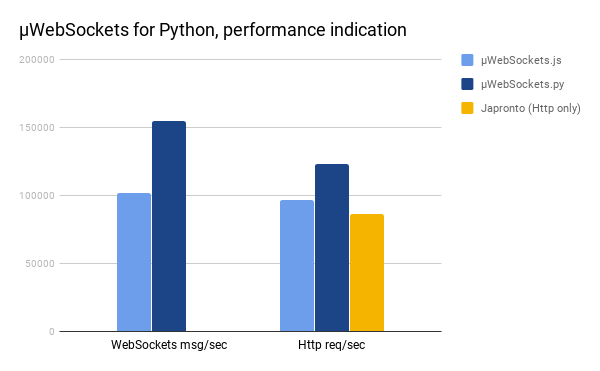
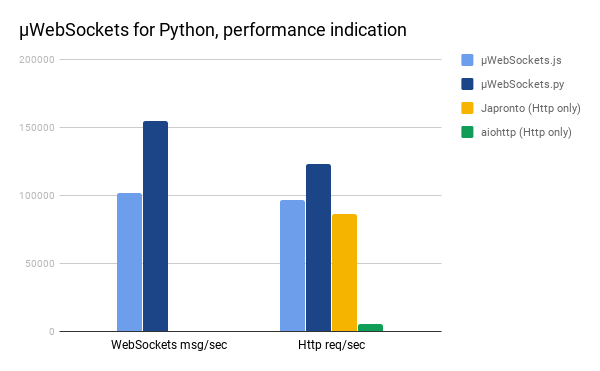
Initial seamless integration with asyncio

Changed region(s): [[0.21, 0.3261, 0.33, 0.8895], [0.51, 0.4447, 0.66, 0.8895], [0.75, 0.3261, 0.96, 0.3854]]

diff --git a/src/Selector.h b/src/Selector.h
@@ -5,23 +5,144 @@
 typedef struct {
     PyObject_HEAD
 	uv_loop_t *loop;
+    PyTypeObject *namedTuple;
+    PyObject *list;
 } SelectorObject;
+
+int read_mask = 1;
+int write_mask = 2;
+
+// vi behöver en fd -till PyObject mapper som håller SelectionKey från fd
+#include <map>
+
+std::map<int, PyObject *> polls;
+std::map<int, uv_poll_t *> uv_polls;
 
 // poll_cb bygger upp vektorn att ge tillbaka
 
 // sel.register(conn, selectors.EVENT_READ, read)
 // integer eller object med fileno, bitmask, userdata (obj)
-static PyObject *Selector_register(SelectorObject *self, PyObject *args) {
+static PyObject *Selector_register(SelectorObject *self, PyObject **args, int nargs) {
 
-    printf("Register called\n");
+    /* Is first argument an integer? */
+    int fd = -1;
+    if (PyLong_Check(args[0])) {
+        fd = PyLong_AsLong(args[0]);
+        printf("FD är: %d\n", fd);
+    } else {
+        printf("Första är inte fd!\n");
+        PyObject *fileobj = args[0];
 
-    return Py_None;
+        PyObject *fdObj = PyObject_CallMethod(fileobj, "fileno", NULL);
+        if (PyLong_Check(fdObj)) {
+            fd = PyLong_AsLong(fdObj);
+            printf("FD från object är: %d\n", fd);
+        } else {
+            // throw exception and return null
+        }
+    }
+
+    int mask = 0;
+    if (PyLong_Check(args[1])) {
+        mask = PyLong_AsLong(args[1]);
+        printf("bitmask är: %d\n", mask);
+    }
+
+    printf("Register called with fd: %d mask: %d\n", fd, mask);
+
+    // SelectorKey
+    //fileobj, fd, events, data
+
+    PyObject *namedTuple = PyStructSequence_New(self->namedTuple);
+
+    Py_INCREF(args[0]);
+
+
+    PyStructSequence_SetItem(namedTuple, 0, args[0]);
+    PyStructSequence_SetItem(namedTuple, 1, PyLong_FromLong(fd));
+    PyStructSequence_SetItem(namedTuple, 2, PyLong_FromLong(mask));
+
+    // optional - kolla längden på args!
+    if (nargs == 3) {
+        printf("Vi har user data!\n");
+        Py_INCREF(args[2]);
+        PyStructSequence_SetItem(namedTuple, 3, args[2]);
+    }
+
+    // kolla om vi redan har denna fd eller lägg till
+    Py_INCREF(namedTuple); // behövs den? efter new? ja för vi sparar den hos oss också
+    polls.insert({fd, namedTuple});
+
+
+    // registrera den själva grejen, peka till pyobjektet
+    // vi kan nå SelectorKey:n genom fd också
+    uv_poll_t *p = new uv_poll_t;
+    uv_poll_init_socket(self->loop, p, fd);
+
+
+    // starta pollning enligt mask
+    uv_poll_start(p, mask, [](uv_poll_t *handle, int status, int events) {
+        // show fd for debugging
+        uv_os_fd_t fd;
+        uv_fileno((uv_handle_t *)handle, &fd);
+        //printf("Poll med FD: %d är redo!\n", fd);
+
+        // get loop and from that SelectorObject
+        uv_loop_t *loop = uv_handle_get_loop((uv_handle_t *) handle);
+        SelectorObject *self = (SelectorObject *) loop->data;
+
+        // make tuple of SelectorKEy and events
+        PyObject *tuple = PyTuple_Pack(2, (PyObject *) handle->data, PyLong_FromLong(events));
+        Py_INCREF(tuple);
+        // add it to this iteration list
+        PyList_Append(self->list, tuple);
+    });
+
+
+    uv_polls.insert({fd, p});
+
+    Py_INCREF(namedTuple);
+    p->data = namedTuple;
+    return namedTuple;
 }
 
-static PyObject *Selector_unregister(SelectorObject *self, PyObject *args) {
+static PyObject *Selector_unregister(SelectorObject *self, PyObject **args, int nargs) {
+
+    int fd = -1;
+    if (PyLong_Check(args[0])) {
+        fd = PyLong_AsLong(args[0]);
+        printf("FD är: %d\n", fd);
+    } else {
+        printf("Första är inte fd!\n");
+        PyObject *fileobj = args[0];
+
+        PyObject *fdObj = PyObject_CallMethod(fileobj, "fileno", NULL);
+        if (PyLong_Check(fdObj)) {
+            fd = PyLong_AsLong(fdObj);
+            printf("FD från object är: %d\n", fd);
+        } else {
+            // throw exception and return null
+        }
+    }
+
+    uv_poll_t *p = uv_polls[fd];
+
+    uv_poll_stop(p);
+    uv_close((uv_handle_t *) p, [](uv_handle_t *p) {
+        delete (uv_poll_t *) p;
+    });
+
+    // tar fd eller fileno-obj som key
 
     printf("Unregister called\n");
 
+
+    uv_polls.erase(fd);
+    polls.erase(fd);
+
+
+
+    Py_INCREF(Py_None);
     return Py_None;
 }
 
@@ -29,6 +150,7 @@ static PyObject *Selector_modify(SelectorObject *self, PyObject *args) {
 
     printf("Modify called\n");
 
+    Py_INCREF(Py_None);
     return Py_None;
 }
 
@@ -36,26 +158,95 @@ static PyObject *Selector_modify(SelectorObject *self, PyObject *args) {
 
 /* This only returns to Python when there are Python events */
 static PyObject *Selector_select(SelectorObject *self, PyObject **args, int nargs) {
+    if (nargs == 1) {
+            //printf("Select called with timeout: %d\n", PyLong_AsLong(args[0]));
 
-    printf("Select called\n");
+            int timeout = PyLong_AsLong(args[0]);
+            if (timeout == 0) {
+                // important to just give it empty list when timeout is 0
+                PyObject *list = self->list;
+
+                self->list = PyList_New(0);
+
+                Py_INCREF(list);
+                return list;
+            }
+
+    } else {
+            //printf("Select called\n");
+    }
+
+    while (true) {
+
+        // if we have no polls just return
+        /*if (polls.size() == 0) {
+            Py_INCREF(Py_None);
+            return Py_None;
+        }*/
+
+        int still = uv_run(self->loop, UV_RUN_ONCE);
+
+        //printf("One loop iteration!\n");
+        //break;
+
+        //if (!still)
+            //break;
+
+        /* If we have any ready polls for Python we have to return them now */
+        if (PyList_Size(self->list)) {
+            break;
+        }
+    }
 
 
-    //while(true) {
-        int remaining = uv_run(self->loop, UV_RUN_ONCE);
+
+    // This returns a list of (key, events) tuples, one for each ready file object.
+    // key is the SelectorKey instance corresponding to a ready file object. events is a bitmask of events ready on this file object.
+
+    // vi kan ha en lista för-allokerad som pollsen fyller i, appendar till
+    // pollsen måste veta om sin SelectorKey
+    // (SelectorKey, events), ()
+
+    PyObject *list = self->list;
+
+    self->list = PyList_New(0);
+
+    Py_INCREF(list);
+    return list;
+}
+
+static PyObject *Selector_get_map(SelectorObject *self, PyObject *args) {
+
+    printf("Get_map called\n");
 
 
-    //}
-
-
-    // de polls som anropats har byggt upp en vektor vi kan ge tillbaka nu
 
     Py_INCREF(Py_None);
     return Py_None;
 }
 
-static PyObject *Selector_get_key(SelectorObject *self, PyObject **args, int nargs) {
+static PyObject *Selector_get_key(SelectorObject *self, PyObject *args) {
 
     printf("Get_key called\n");
+
+    int fd;
+    int ok = PyArg_ParseTuple(args, "i", &fd);
+
+    printf("ok: %d, fd: %d\n", ok, fd);
+
+    //PyExc_KeyError
+
+    PyErr_SetString(PyExc_KeyError, "yo!");
+    return NULL;
+
+
+    Py_INCREF(Py_None);
+    return Py_None;
+}
+
+static PyObject *Selector_close(SelectorObject *self, PyObject *args) {
+
+    printf("Close called\n");
 
 
     Py_INCREF(Py_None);
@@ -64,11 +255,13 @@ static PyObject *Selector_get_key(SelectorObject *self, PyObject **args, int nar
 
 static PyMethodDef Selector_methods[] = {
 
-    {"register", (PyCFunction) Selector_register, METH_VARARGS, "no doc"},
-    {"unregister", (PyCFunction) Selector_unregister, METH_VARARGS, "no doc"},
+    {"register", (PyCFunction) Selector_register, METH_FASTCALL, "no doc"},
+    {"unregister", (PyCFunction) Selector_unregister, METH_FASTCALL, "no doc"},
     {"modify", (PyCFunction) Selector_modify, METH_VARARGS, "no doc"},
     {"select", (PyCFunction) Selector_select, METH_FASTCALL, "no doc"},
-    {"get_key", (PyCFunction) Selector_get_key, METH_FASTCALL, "no doc"},
+    {"get_key", (PyCFunction) Selector_get_key, METH_VARARGS, "no doc"},
+    {"get_map", (PyCFunction) Selector_get_map, METH_VARARGS, "no doc"},
+    {"close", (PyCFunction) Selector_get_map, METH_FASTCALL, "no doc"},
 
     {NULL}
 };
@@ -77,6 +270,31 @@ static PyObject *Selector_new(PyTypeObject *type, PyObject *args, PyObject *kwds
     SelectorObject *self = (SelectorObject *) type->tp_alloc(type, 0);
     if (self != NULL) {
 	    self->loop = uv_default_loop();
+
+        PyStructSequence_Field fields[] = {
+            {"fileobj", "doc"},
+            {"fd", "doc"},
+            {"events", "doc"},
+            {"data", "doc"},
+            {"__module__", "doc"},
+            NULL
+        };
+
+        PyStructSequence_Desc desc = {
+            "uWS.SelectorKey",
+            "doc",
+            fields,
+            4
+        };
+
+        self->list = PyList_New(0);
+
+        // create tuple type
+        self->namedTuple = PyStructSequence_NewType(&desc);
+
+        printf("Named tuple is: %p\n", self->namedTuple);
+
+        self->loop->data = self;
     }
     Py_INCREF(self);
     return (PyObject *) self;

diff --git a/seamless.py b/seamless.py
@@ -1,0 +1,38 @@
+# this is an example of seamless integration between uWebSockets.py and any asyncio project (here we have aiohttp)
+# both servers run on the same event loop yet the performance difference is major (5k vs. 127k or more)
+
+import uwebsocketspy as uWS
+import asyncio
+
+# hook up with asyncio (all needed?)
+asyncio.set_event_loop(asyncio.SelectorEventLoop(uWS.Selector()))
+
+# aio do your thang
+from aiohttp import web
+
+async def handle(request):
+    name = request.match_info.get('name', "Anonymous")
+    text = "Hello, " + name
+    return web.Response(text=text)
+
+app = web.Application()
+app.add_routes([web.get('/', handle),
+                web.get('/{name}', handle)])
+
+# uwebsockets do its thang
+appp = uWS.App({
+	"some": "option"
+})
+
+def getHandler(res, req):
+	res.fastEnd("Hello Python!")
+
+appp.get("/*", getHandler)
+
+def listenHandler():
+	print("Listening to port 3000")
+
+appp.listen(3000, listenHandler)
+
+web.run_app(app)
+print("we cannot come here!")

diff --git a/src/extension.cpp b/src/extension.cpp
@@ -53,8 +53,8 @@ static PyMethodDef methods[] = {
 PyMODINIT_FUNC PyInit_uwebsocketspy() {
 
     printf("Compiled against Python version: %d.%d.%d\n", PY_MAJOR_VERSION, PY_MINOR_VERSION, PY_MICRO_VERSION);
-    printf("Compiled against libuv version: %d.%d.%d\n", UV_VERSION_MAJOR, UV_VERSION_MINOR, UV_VERSION_PATCH);
-    printf("Linked against libuv version: %s\n", uv_version_string());
+    //printf("Compiled against libuv version: %d.%d.%d\n", UV_VERSION_MAJOR, UV_VERSION_MINOR, UV_VERSION_PATCH);
+    //printf("Linked against libuv version: %s\n", uv_version_string());
 
     uWS::Loop::get(uv_default_loop());
 
